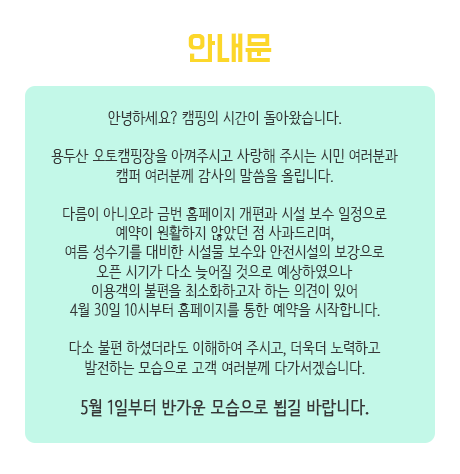
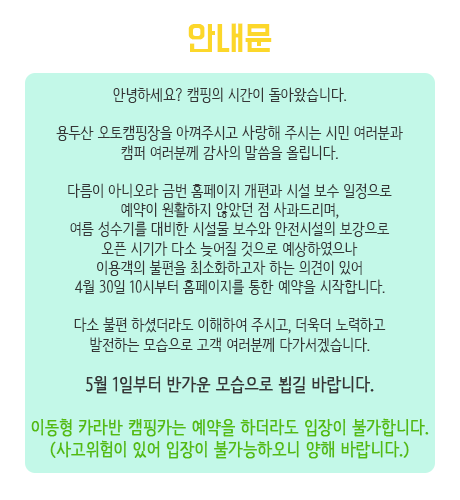
유의사항 수정

Changed region(s): [[0.0913, 0.2363, 0.8826, 0.7975], [0.0609, 0.827, 0.9435, 0.9451], [0.0304, 0.0295, 0.9435, 0.2068]]

diff --git a/reservation.html b/reservation.html
@@ -79,7 +79,7 @@
                         <p>임의로 가 예약을 잡은 후 취소, 일정변경 후 즉시 재 예약을 함으로서 다른 사용자에게 피해를 주는 행위를 방지하기 위한 조치이오니 양해바랍니다.</p>
                         <p>예약 후 예약일자 및 시설은 변경할 수 없으며, 취소 후 재 예약 하시기 바랍니다.</p>
                         <p>많은 사람들이 사용하는 만큼 신중히 신청하셔서 다른 사용자에게 피해를 주는 일이 없도록 해주세요.</p>
-                        <p><span>이동형 카라반 캠핑카는 예약을 하더라도 입장이 불가합니다.</span></p>
+                        <p><span>이동형 카라반 캠핑카는 예약을 하더라도 입장이 불가합니다. (사고위험이 있어 입장이 불가능하오니 양해 바랍니다.)</span></p>
                     </div>
                 </div>
 

diff --git a/info.html b/info.html
@@ -123,7 +123,7 @@
                         </p>
                         <p>
                             <img style="padding:0px 8px;" src="./images/info/one.png" alt="타원">
-                            장기체류자(2주일 이상)
+                            동절기 장기체류자(2주일 이상)
                         </p>
                         <p>
                             <img style="padding:0px 8px;" src="./images/info/one.png" alt="타원">
